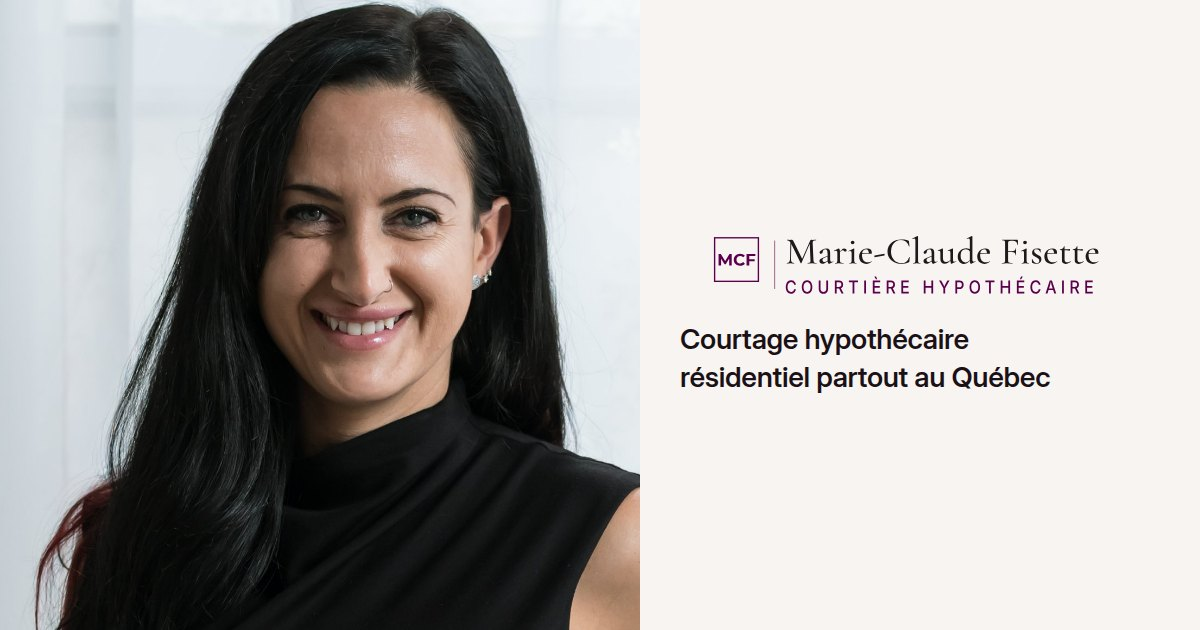
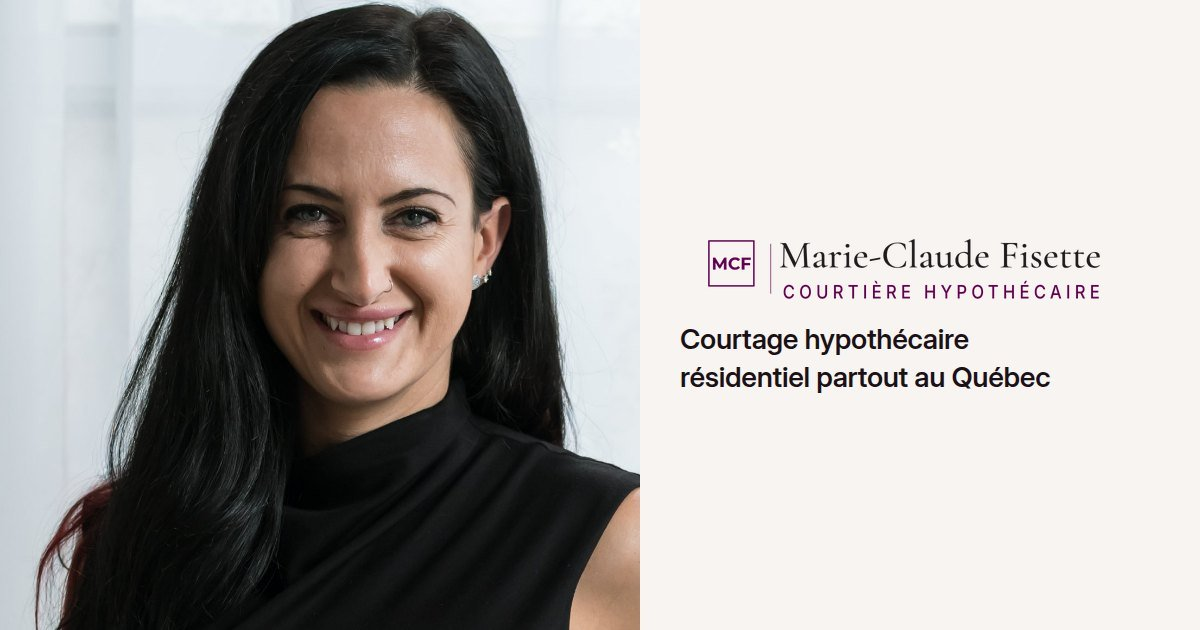
Replace the home split hero with a full-bleed Montreal photo.
The heading, chips, and paragraph sit on a dark gradient over the plex photo, and the call button stays solid. The logo name and tagline now share one left edge, about 14px from the divider at header size.

Changed region(s): [[0.5858, 0.3619, 0.925, 0.4825]]

diff --git a/assets/mcf.css b/assets/mcf.css
@@ -80,27 +80,46 @@ body.lightmode .keep-dark,
   letter-spacing: -0.02em;
 }
 
-.rm-hero {
-  display: grid;
-  grid-template-columns: minmax(0, 1.05fr) minmax(260px, .9fr);
-  align-items: stretch;
-  gap: 28px;
+.section-banner {
+  padding: 0 !important;
+  margin: 0;
+  background: #140c10;
+}
+
+.navbar-wrapper {
   background: var(--mcf-paper);
+  position: relative;
+  z-index: 40;
+}
+
+.navbar {
+  background: #fff;
+}
+
+.rm-hero {
+  display: block;
+  position: relative;
+  isolation: isolate;
+  min-height: 92vh;
+  padding: 0 !important;
+  margin: 0;
+  overflow: hidden;
+  border: 0 !important;
+  border-radius: 0 !important;
+  background: #140c10;
   background-image: none;
-  min-height: 0;
-  padding: 28px;
-  border-color: var(--mcf-line);
+  color: #fff;
 }
 
 .mcf-hero-photo {
   margin: 0;
-  order: 2;
-  position: relative;
-  min-height: 680px;
-  height: 100%;
-  border-radius: 18px;
+  position: absolute;
+  inset: 0;
+  min-height: 0;
+  height: auto;
+  border-radius: 0;
   overflow: hidden;
-  background: transparent;
+  background: #140c10;
 }
 
 .mcf-hero-photo img {
@@ -110,7 +129,7 @@ body.lightmode .keep-dark,
   width: 100%;
   height: 100%;
   object-fit: cover;
-  object-position: center 36%;
+  object-position: 68% 42%;
 }
 
 /* Header and hero copy are visible on first paint. A fade must not leave a blank cream band. */
@@ -129,24 +148,28 @@ body.lightmode .keep-dark,
   transform: none !important;
 }
 
-.rm-hero-shade { display: none; }
-
-.rm-hero .hero-container {
-  position: relative;
+.rm-hero-shade {
+  display: block;
+  position: absolute;
+  inset: 0;
   z-index: 1;
-  width: auto;
-  max-width: none;
-  margin: 0;
-  display: flex;
-  align-items: center;
+  pointer-events: none;
+  background:
+    linear-gradient(90deg, rgba(12, 6, 10, .88) 0%, rgba(12, 6, 10, .72) 34%, rgba(12, 6, 10, .38) 58%, rgba(12, 6, 10, .18) 100%),
+    linear-gradient(180deg, rgba(12, 6, 10, .28) 0%, rgba(12, 6, 10, 0) 22%, rgba(12, 6, 10, .35) 100%);
 }
 
 .rm-hero .hero-container {
   position: relative;
-  z-index: 1;
-  width: min(640px, 100%);
-  margin-left: 0;
-  margin-right: auto;
+  z-index: 2;
+  width: min(1180px, 100%);
+  max-width: 1180px;
+  min-height: 92vh;
+  margin: 0 auto;
+  padding: 72px 56px;
+  display: flex;
+  align-items: center;
+  justify-content: flex-start;
 }
 
 .rm-hero .banner-heading {
@@ -181,7 +204,35 @@ body.lightmode .keep-dark,
 
 .rm-hero .banner-content p,
 .rm-hero .rm-lede {
-  color: var(--mcf-ink);
+  color: #fff;
+  -webkit-text-fill-color: #fff;
+}
+
+.rm-hero .rm-hero-title,
+.rm-hero .title-heading-banner,
+.rm-hero .rm-hero-title strong,
+.rm-hero .rm-dot {
+  color: #fff !important;
+  -webkit-text-fill-color: #fff !important;
+}
+
+.rm-hero .sub-heading,
+.rm-hero .sub-heading span,
+.rm-hero .rm-aside-label,
+.rm-hero .rm-text-link {
+  color: #fff !important;
+  -webkit-text-fill-color: #fff !important;
+}
+
+.rm-hero .rm-text-link {
+  text-decoration: underline;
+  text-underline-offset: 4px;
+}
+
+.rm-hero .banner-content .d-flex {
+  justify-content: flex-start !important;
+  align-items: center !important;
+  align-self: flex-start !important;
 }
 
 .rm-aside-label {
@@ -194,6 +245,13 @@ body.lightmode .keep-dark,
   background: var(--mcf-card);
   border-color: var(--mcf-line);
   backdrop-filter: none;
+}
+
+.rm-hero .rm-surfaces li {
+  color: #fff;
+  -webkit-text-fill-color: #fff;
+  background: rgba(255, 255, 255, .12);
+  border: 1px solid rgba(255, 255, 255, .55);
 }
 
 .rm-page-hero,
@@ -406,7 +464,9 @@ html.mcf-reduce .rm-editorial {
     grid-column: auto;
     grid-row: auto;
   }
-  .rm-hero { min-height: 0; padding: 40px 20px 36px; }
+  .rm-hero,
+  .rm-hero .hero-container { min-height: 88vh; }
+  .rm-hero .hero-container { padding: 56px 32px; }
   .rm-hero .banner-content,
   .rm-hero-aside,
   .banner-video-content { width: 100%; }
@@ -436,9 +496,23 @@ html.mcf-reduce .rm-editorial {
     max-width: calc(100vw - 118px) !important;
     max-height: none;
   }
-  .rm-hero { grid-template-columns: 1fr; padding: 16px; }
-  .mcf-hero-photo { order: -1; min-height: 560px; height: 560px; }
-  .mcf-hero-photo img { object-position: center 32%; }
+  .rm-hero,
+  .rm-hero .hero-container {
+    min-height: calc(100svh - 108px);
+    height: auto;
+  }
+  .rm-hero .hero-container {
+    align-items: flex-end;
+    padding: 20px 20px 24px;
+  }
+  .mcf-hero-photo img { object-position: 58% 38%; }
+  .rm-hero-shade {
+    background:
+      linear-gradient(180deg, rgba(12, 6, 10, .18) 0%, rgba(12, 6, 10, .28) 38%, rgba(12, 6, 10, .82) 68%, rgba(12, 6, 10, .92) 100%);
+  }
+  .rm-hero-title,
+  .rm-page-title { font-size: clamp(34px, 9.2vw, 44px); }
+  .rm-hero .banner-content p { font-size: 16px; line-height: 1.45; }
   .expertise-img,
   .expertise-img img { height: 580px; }
   .rm-why-visual { height: 280px; }
@@ -833,9 +907,10 @@ body.lightmode :where(
   padding: 0;
 }
 
-.rm-hero .sub-heading span {
-  color: var(--mcf-accent) !important;
-  -webkit-text-fill-color: var(--mcf-accent) !important;
+.rm-hero .sub-heading span,
+.rm-hero .sub-heading i {
+  color: #fff !important;
+  -webkit-text-fill-color: #fff !important;
 }
 
 a.btn-accent,

diff --git a/index.html b/index.html
@@ -65,8 +65,8 @@
 <div class="rm-side-contact"><span class="rm-side-kicker">Joindre</span><a href="tel:+18192728422">819 272-8422</a><a href="mailto:mc.fisette@groupeih.ca">mc.fisette@groupeih.ca</a></div>
 </div></div>
 <main id="contenu">
-<div class="section-banner"><div class="banner-video-container rm-hero keep-dark">
-<figure class="mcf-hero-photo"><img src="assets/img/mcf/mcf-stoop-1400.webp" width="1400" height="2100" alt="Marie-Claude Fisette devant une maison de brique" fetchpriority="high" decoding="async"></figure>
+<div class="section-banner"><div class="banner-video-container rm-hero">
+<figure class="mcf-hero-photo" aria-hidden="true"><img src="assets/img/stock/montreal-plex-1.jpg" width="2400" height="1600" alt="" fetchpriority="high" decoding="async"></figure>
 <div class="rm-hero-shade" aria-hidden="true"></div>
 <div class="hero-container position-relative"><div class="d-flex flex-column gspace-2">
 <div class="sub-heading rm-eyebrow animate__animated animate__fadeInDown"><i class="rm-ico rm-ico-dot" aria-hidden="true"></i><span>Partout au Québec</span></div>
